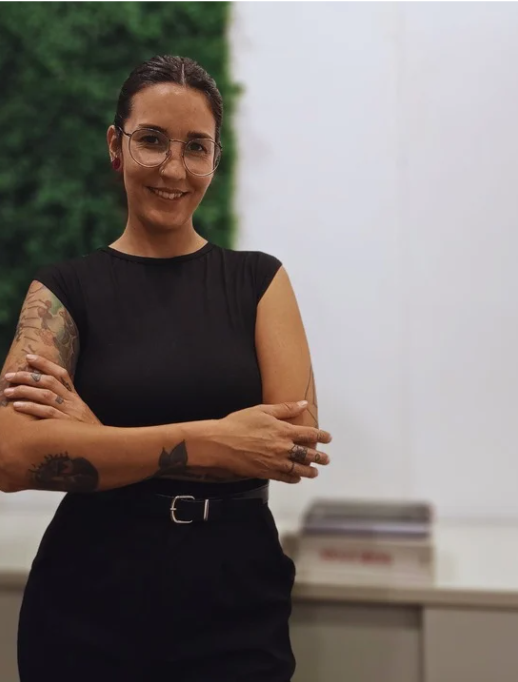
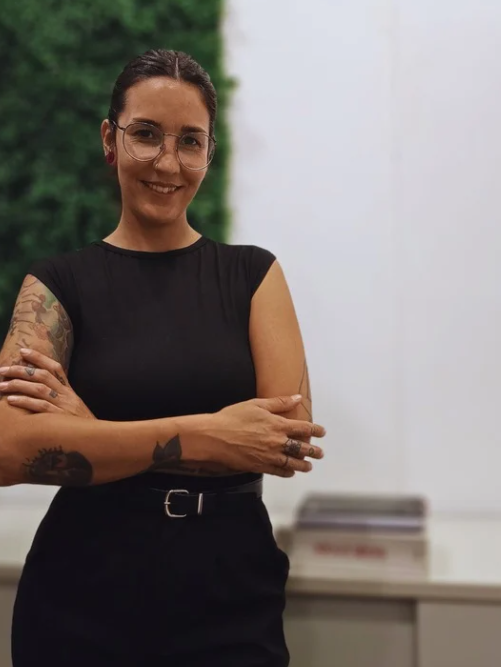
cambios esteticos

diff --git a/index.html b/index.html
@@ -198,44 +198,37 @@
       <div class="row g-3 g-md-4 justify-content-center align-items-stretch">
         <div class="col-6 col-md-4 col-lg-3" data-aos="zoom-in" data-aos-delay="0">
           <div class="company-logo-card">
-            <img src="src/mapfre.png" alt="Mapfre" loading="lazy">
-            <span class="company-name">Mapfre</span>
+            <img src="img/brands/mapfre.png" alt="Mapfre" loading="lazy">
           </div>
         </div>
         <div class="col-6 col-md-4 col-lg-3" data-aos="zoom-in" data-aos-delay="50">
           <div class="company-logo-card">
-            <img src="src/allianz.jpg" alt="Allianz" loading="lazy">
-            <span class="company-name">Allianz</span>
+            <img src="img/brands/allianz.png" alt="Allianz" loading="lazy">
           </div>
         </div>
         <div class="col-6 col-md-4 col-lg-3" data-aos="zoom-in" data-aos-delay="100">
           <div class="company-logo-card">
-            <img src="src/san-cristobal.webp" alt="San Cristóbal" loading="lazy">
-            <span class="company-name">San Cristóbal</span>
+            <img src="img/brands/san-cristobal.png" alt="San Cristóbal Seguros" loading="lazy">
           </div>
         </div>
         <div class="col-6 col-md-4 col-lg-3" data-aos="zoom-in" data-aos-delay="150">
           <div class="company-logo-card">
-            <img src="src/Federacion Patronal Seguros.jpg" alt="Federación Patronal Seguros" loading="lazy">
-            <span class="company-name">Federación Patronal</span>
+            <img src="img/brands/federacion-patronal.png" alt="Federación Patronal Seguros" loading="lazy">
           </div>
         </div>
         <div class="col-6 col-md-4 col-lg-3" data-aos="zoom-in" data-aos-delay="200">
           <div class="company-logo-card">
-            <img src="src/logo_Asociart_login.jpg" alt="Asociart ART" loading="lazy">
-            <span class="company-name">Asociart ART</span>
+            <img src="img/brands/asociart.png" alt="Asociart ART" loading="lazy">
           </div>
         </div>
         <div class="col-6 col-md-4 col-lg-3" data-aos="zoom-in" data-aos-delay="250">
           <div class="company-logo-card">
-            <img src="src/Mercantil Andina.jpg" alt="Mercantil Andina" loading="lazy">
-            <span class="company-name">Mercantil Andina</span>
+            <img src="img/brands/mercantil-andina.png" alt="Mercantil Andina" loading="lazy">
           </div>
         </div>
         <div class="col-6 col-md-4 col-lg-3" data-aos="zoom-in" data-aos-delay="300">
           <div class="company-logo-card">
-            <img src="src/Andina-ART.png" alt="Andina ART" loading="lazy">
-            <span class="company-name">Andina ART</span>
+            <img src="img/brands/andina-art.png" alt="Andina ART" loading="lazy">
           </div>
         </div>
       </div>
@@ -575,38 +568,46 @@
                   <div class="invalid-feedback">Ingresá un email válido.</div>
                 </div>
                 <div class="col-12">
-                  <label class="form-label">Tipo de seguro (podés elegir varios)</label>
-                  <select class="form-select" id="input-tipo-seguro" name="tipo_seguro" multiple size="8">
-                    <optgroup label="Seguros Personales">
-                      <option value="Automotor">Automotor</option>
-                      <option value="Motos">Motos</option>
-                      <option value="Hogar">Hogar</option>
-                      <option value="Tecno Portátil">Tecno Portátil / Celular</option>
-                      <option value="Movilidad Sustentable">Movilidad Sustentable</option>
-                      <option value="Accidentes Personales">Accidentes Personales</option>
-                      <option value="Vida Individual">Vida Individual</option>
-                      <option value="Garantía para Alquileres">Garantía para Alquileres</option>
-                      <option value="Embarcaciones">Embarcaciones de Placer</option>
-                      <option value="Salud">Salud</option>
-                      <option value="Sepelio">Sepelio</option>
-                      <option value="Bolso Protegido">Bolso Protegido</option>
-                    </optgroup>
-                    <optgroup label="Empresas y PyMEs">
-                      <option value="Comercios y PyMEs">Comercios y PyMEs</option>
-                      <option value="Consorcio">Consorcio</option>
-                      <option value="ART">ART</option>
-                      <option value="Caución">Caución</option>
-                      <option value="RC Profesional">RC Profesional</option>
-                      <option value="RC Eventos">RC Eventos</option>
-                      <option value="Transporte">Transporte</option>
-                      <option value="Seguro Técnico">Seguro Técnico para Empresas</option>
-                      <option value="Seguros Agrarios">Seguros Agrarios</option>
-                      <option value="Granizo">Granizo</option>
-                      <option value="Incendio">Incendio</option>
-                      <option value="Vida Colectivo">Vida Colectivo</option>
-                    </optgroup>
-                  </select>
-                  <div class="form-text">Mantené presionada la tecla Ctrl (o Cmd en Mac) para seleccionar varios.</div>
+                  <label for="input-tipo-seguro" class="form-label d-flex justify-content-between align-items-center flex-wrap gap-2">
+                    <span>Tipo de seguro <small class="opacity-75">(podés elegir varios)</small></span>
+                    <span class="badge badge-hint"><i class="bi bi-hand-index-thumb me-1"></i>Clic para seleccionar</span>
+                  </label>
+                  <div class="custom-multiselect-wrapper">
+                    <select class="form-select custom-multiselect" id="input-tipo-seguro" name="tipo_seguro" multiple size="7">
+                      <optgroup label="Seguros Personales">
+                        <option value="Automotor">Automotor</option>
+                        <option value="Motos">Motos</option>
+                        <option value="Hogar">Hogar</option>
+                        <option value="Tecno Portátil">Tecno Portátil / Celular</option>
+                        <option value="Movilidad Sustentable">Movilidad Sustentable</option>
+                        <option value="Accidentes Personales">Accidentes Personales</option>
+                        <option value="Vida Individual">Vida Individual</option>
+                        <option value="Garantía para Alquileres">Garantía para Alquileres</option>
+                        <option value="Embarcaciones">Embarcaciones de Placer</option>
+                        <option value="Salud">Salud</option>
+                        <option value="Sepelio">Sepelio</option>
+                        <option value="Bolso Protegido">Bolso Protegido</option>
+                      </optgroup>
+                      <optgroup label="Empresas y PyMEs">
+                        <option value="Comercios y PyMEs">Comercios y PyMEs</option>
+                        <option value="Consorcio">Consorcio</option>
+                        <option value="ART">ART</option>
+                        <option value="Caución">Caución</option>
+                        <option value="RC Profesional">RC Profesional</option>
+                        <option value="RC Eventos">RC Eventos</option>
+                        <option value="Transporte">Transporte</option>
+                        <option value="Seguro Técnico">Seguro Técnico para Empresas</option>
+                        <option value="Seguros Agrarios">Seguros Agrarios</option>
+                        <option value="Granizo">Granizo</option>
+                        <option value="Incendio">Incendio</option>
+                        <option value="Vida Colectivo">Vida Colectivo</option>
+                      </optgroup>
+                    </select>
+                  </div>
+                  <div class="form-text-custom">
+                    <i class="bi bi-info-circle text-accent"></i>
+                    <span>Hacé clic en cada cobertura que te interese para sumarla o quitarla de tu consulta.</span>
+                  </div>
                 </div>
                 <div class="col-12">
                   <label for="input-mensaje" class="form-label">Mensaje</label>

diff --git a/css/styles.css b/css/styles.css
@@ -363,35 +363,32 @@ section {
 .company-logo-card {
   background: #fff;
   border-radius: var(--border-radius);
-  padding: 1.5rem;
-  text-align: center;
+  padding: 0;
+  overflow: hidden;
   box-shadow: var(--shadow-sm);
-  border: 1px solid rgba(0,0,0,0.05);
-  transition: var(--transition-base);
-  height: 100%;
-  display: flex;
-  flex-direction: column;
-  align-items: center;
-  justify-content: center;
-  min-height: 120px;
+  border: 1px solid rgba(0,0,0,0.08);
+  transition: transform var(--transition-base), box-shadow var(--transition-base);
+  aspect-ratio: 16 / 9;
+  width: 100%;
+  display: block;
+  position: relative;
 }
 
 .company-logo-card:hover {
-  transform: translateY(-4px);
+  transform: translateY(-6px);
   box-shadow: var(--shadow-md);
 }
 
 .company-logo-card img {
-  max-height: 60px;
-  max-width: 100%;
-  object-fit: contain;
-  margin-bottom: 0.5rem;
+  width: 100%;
+  height: 100%;
+  object-fit: cover;
+  display: block;
+  transition: transform 0.4s ease;
 }
 
-.company-logo-card .company-name {
-  font-size: 0.85rem;
-  font-weight: 600;
-  color: var(--color-text-muted);
+.company-logo-card:hover img {
+  transform: scale(1.04);
 }
 
 /* ============================================
@@ -511,13 +508,110 @@ section {
 .contact-form-card .form-select:focus {
   background: rgba(255,255,255,0.12);
   border-color: var(--color-accent);
-  box-shadow: 0 0 0 0.2rem rgba(200,164,78,0.25);
+  box-shadow: 0 0 0 0.2rem rgba(255,145,77,0.25);
   color: #fff;
 }
 
-.contact-form-card .form-select option {
-  background: var(--color-primary-dark);
-  color: #fff;
+/* ============================================
+   Custom Multi-Select & Scrollbar
+   ============================================ */
+.custom-multiselect-wrapper {
+  position: relative;
+  border-radius: 10px;
+  overflow: hidden;
+  box-shadow: inset 0 2px 6px rgba(0, 0, 0, 0.25);
+}
+
+.custom-multiselect {
+  background: rgba(14, 45, 52, 0.6) !important;
+  border: 1px solid rgba(255, 255, 255, 0.18) !important;
+  color: #fff !important;
+  padding: 0.6rem !important;
+  border-radius: 10px !important;
+  font-size: 0.95rem;
+  background-image: none !important;
+  width: 100%;
+  height: 220px;
+  overflow-y: auto;
+  cursor: pointer;
+  scrollbar-width: thin;
+  scrollbar-color: var(--color-accent) rgba(0, 0, 0, 0.3);
+}
+
+/* Custom scrollbar para Chrome, Edge, Safari */
+.custom-multiselect::-webkit-scrollbar {
+  width: 8px;
+}
+
+.custom-multiselect::-webkit-scrollbar-track {
+  background: rgba(0, 0, 0, 0.25);
+  border-radius: 8px;
+  margin: 4px 0;
+}
+
+.custom-multiselect::-webkit-scrollbar-thumb {
+  background: var(--color-accent);
+  border-radius: 8px;
+}
+
+.custom-multiselect::-webkit-scrollbar-thumb:hover {
+  background: var(--color-accent-light);
+}
+
+/* Grupos de opciones */
+.custom-multiselect optgroup {
+  font-weight: 700;
+  font-size: 0.8rem;
+  text-transform: uppercase;
+  letter-spacing: 0.8px;
+  color: var(--color-accent);
+  background: rgba(18, 56, 64, 0.96);
+  padding: 8px 10px 4px;
+  margin: 6px 0 3px;
+  border-radius: 6px;
+}
+
+/* Opciones individuales */
+.custom-multiselect option {
+  padding: 7px 12px;
+  margin: 2px 0;
+  border-radius: 6px;
+  font-size: 0.92rem;
+  color: #f0f4f5;
+  background: transparent;
+  cursor: pointer;
+  transition: all 0.15s ease;
+}
+
+.custom-multiselect option:hover {
+  background: rgba(255, 145, 77, 0.25) !important;
+  color: #ffffff;
+}
+
+.custom-multiselect option:checked {
+  background: var(--color-accent) !important;
+  color: #ffffff !important;
+  font-weight: 600;
+  box-shadow: 0 2px 6px rgba(255, 145, 77, 0.4);
+}
+
+.badge-hint {
+  background: rgba(255, 145, 77, 0.18);
+  color: var(--color-accent);
+  border: 1px solid rgba(255, 145, 77, 0.35);
+  font-size: 0.75rem;
+  font-weight: 500;
+  padding: 0.3em 0.75em;
+  border-radius: 20px;
+}
+
+.form-text-custom {
+  font-size: 0.82rem;
+  color: rgba(255, 255, 255, 0.7);
+  margin-top: 0.45rem;
+  display: flex;
+  align-items: center;
+  gap: 0.4rem;
 }
 
 .contact-form-card .form-label {

diff --git a/js/main.js b/js/main.js
@@ -149,6 +149,18 @@
     // Mostrar aviso de rate limit si ya se alcanzó el límite
     updateRateLimitUI();
 
+    // Mejora UX: Clic simple para sumar o quitar opciones sin requerir la tecla Ctrl
+    const multiSelect = form.querySelector('#input-tipo-seguro');
+    if (multiSelect) {
+      multiSelect.addEventListener('mousedown', function (e) {
+        if (e.target && e.target.tagName === 'OPTION') {
+          e.preventDefault();
+          e.target.selected = !e.target.selected;
+          multiSelect.dispatchEvent(new Event('change'));
+        }
+      });
+    }
+
     form.addEventListener('submit', async function (e) {
       e.preventDefault();
 
@@ -159,12 +171,15 @@
         return;
       }
 
+      // Recolectar todas las opciones seleccionadas
+      const selectedOpts = Array.from(form.querySelectorAll('#input-tipo-seguro option:checked')).map(opt => opt.value);
+
       // Recolectar datos del formulario
       const formData = {
         nombre: form.querySelector('#input-nombre').value.trim(),
         email: form.querySelector('#input-email').value.trim(),
         telefono: form.querySelector('#input-telefono').value.trim(),
-        tipoSeguro: form.querySelector('#input-tipo-seguro').value,
+        tipoSeguro: selectedOpts.length > 0 ? selectedOpts.join(', ') : 'Consulta general',
         mensaje: form.querySelector('#input-mensaje').value.trim(),
       };
 
